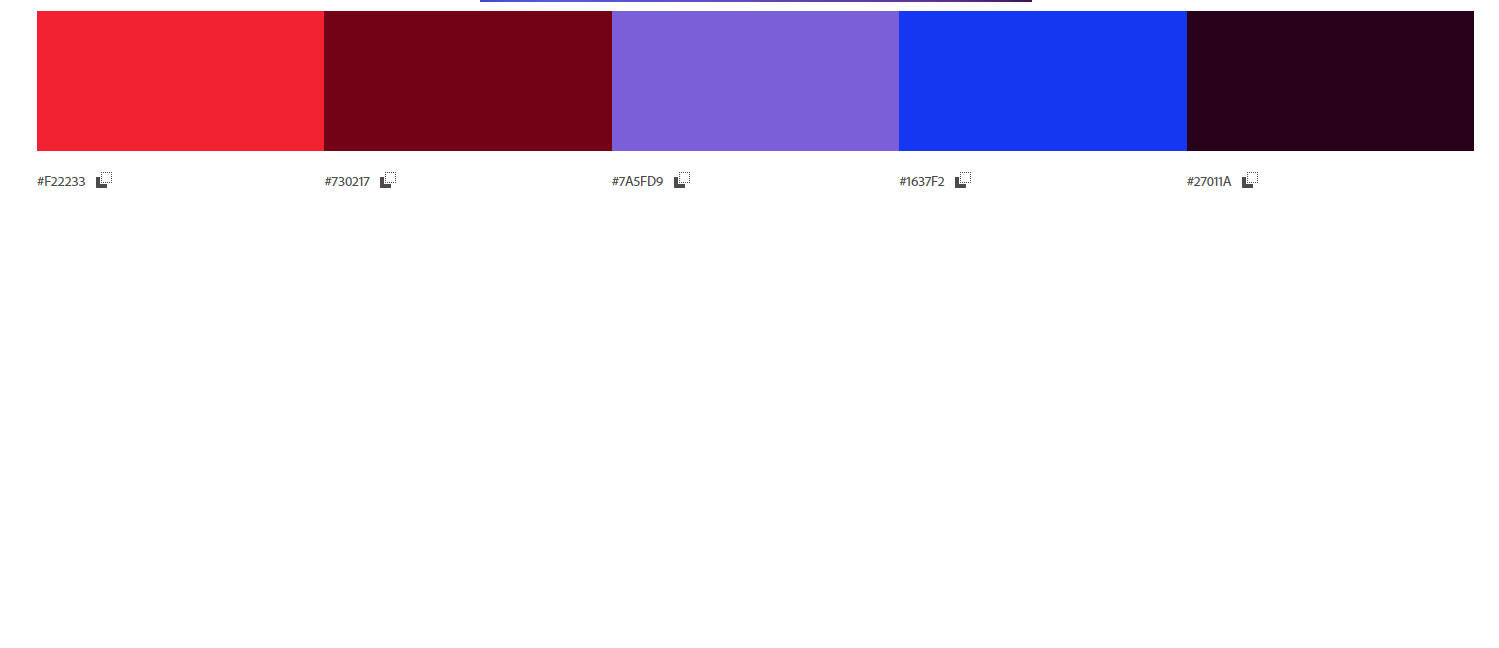
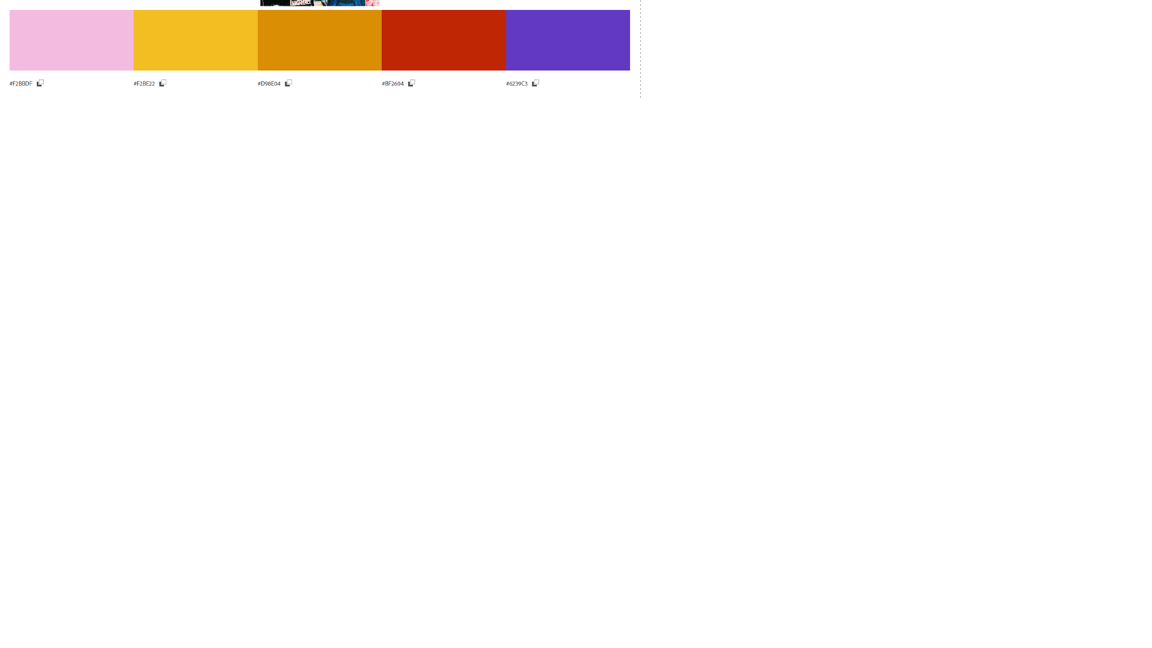
Changed colour palette

diff --git a/css/style.css b/css/style.css
@@ -38,8 +38,8 @@ body
 .banner
 {
     grid-area: b;
-    background-color: #730217cc;
-    color: #f22233;
+    background-color: #6239C3;
+    color: #ffffff;
     font-size: 60px;
     text-align: center;
 }
@@ -48,7 +48,7 @@ body
 .nav
 {
     grid-area: n;
-    background-color: #c616f2;
+    background-color: #BF2604;
     font-size: 20px;
 }
 
@@ -56,7 +56,7 @@ body
 .left-side
 {
     grid-area: ls;
-    background-color: aqua;
+    background-color: #D98E04;
 }
 
 /* Main box */
@@ -77,27 +77,27 @@ body
 .main-head
 {
     grid-area: mh;
-    background-color: #795fd9;
+    background-color: #F2B8DF;
 }
 
 /* Main left */
 .main-left
 {
     grid-area: ml;
-    background-color: #795fd9e5;
+    background-color: #F2B8DF;
 }
 
 /* Main right */
 .main-right
 {
     grid-area: mr;
-    background-color: #795fd9b0;
+    background-color: #F2B8DF;
 }
 
 /* Browse */
 .browse
 {
-    background-color: aqua;
+    background-color: #F2B8DF;
     display: grid;
     grid-template-columns: 1fr 1fr 1fr;
     grid-template-rows: auto;
@@ -113,6 +113,6 @@ body
 .footer
 {
     grid-area: f;
-    background-color: #730217;
+    background-color: #6239C3;
     color: #f22233;
 }

diff --git a/top_bit.html b/top_bit.html
@@ -16,10 +16,6 @@
                 <a href="index.php">index</a>
                 <a href="browse.php">browse</a>
                 <a href="about.php">about</a>
-                <form action="/action_page.php">
-                    <input type="text" placeholder="Search.." name="search">
-                    <button type="submit"><i class="fa fa-search"></i></button>
-                </form>
             </div><!--end nav-->
             <div class="banner box">
                 <h1>Isaac's Movie Reveiws</h1>
